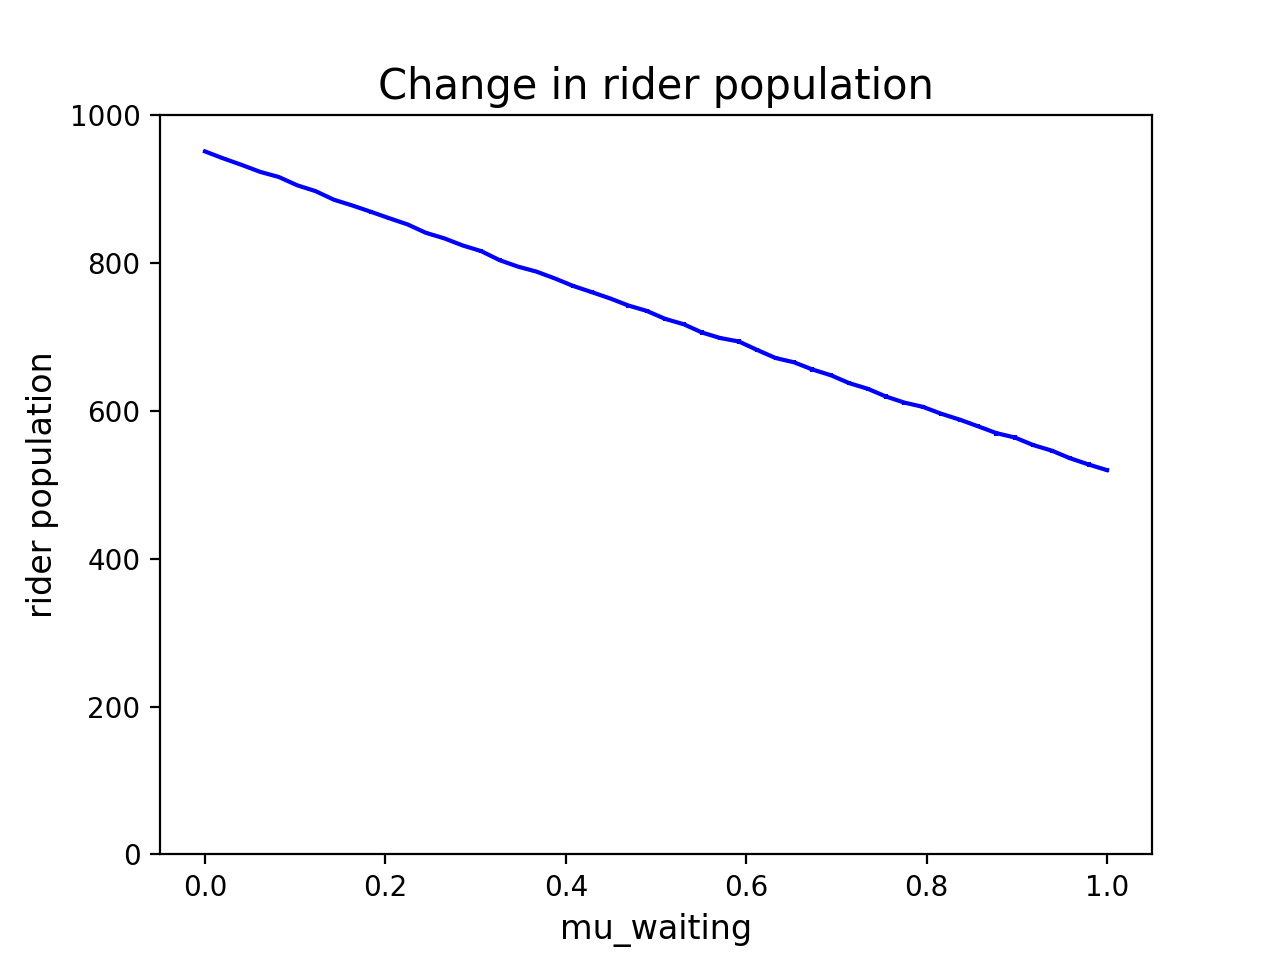
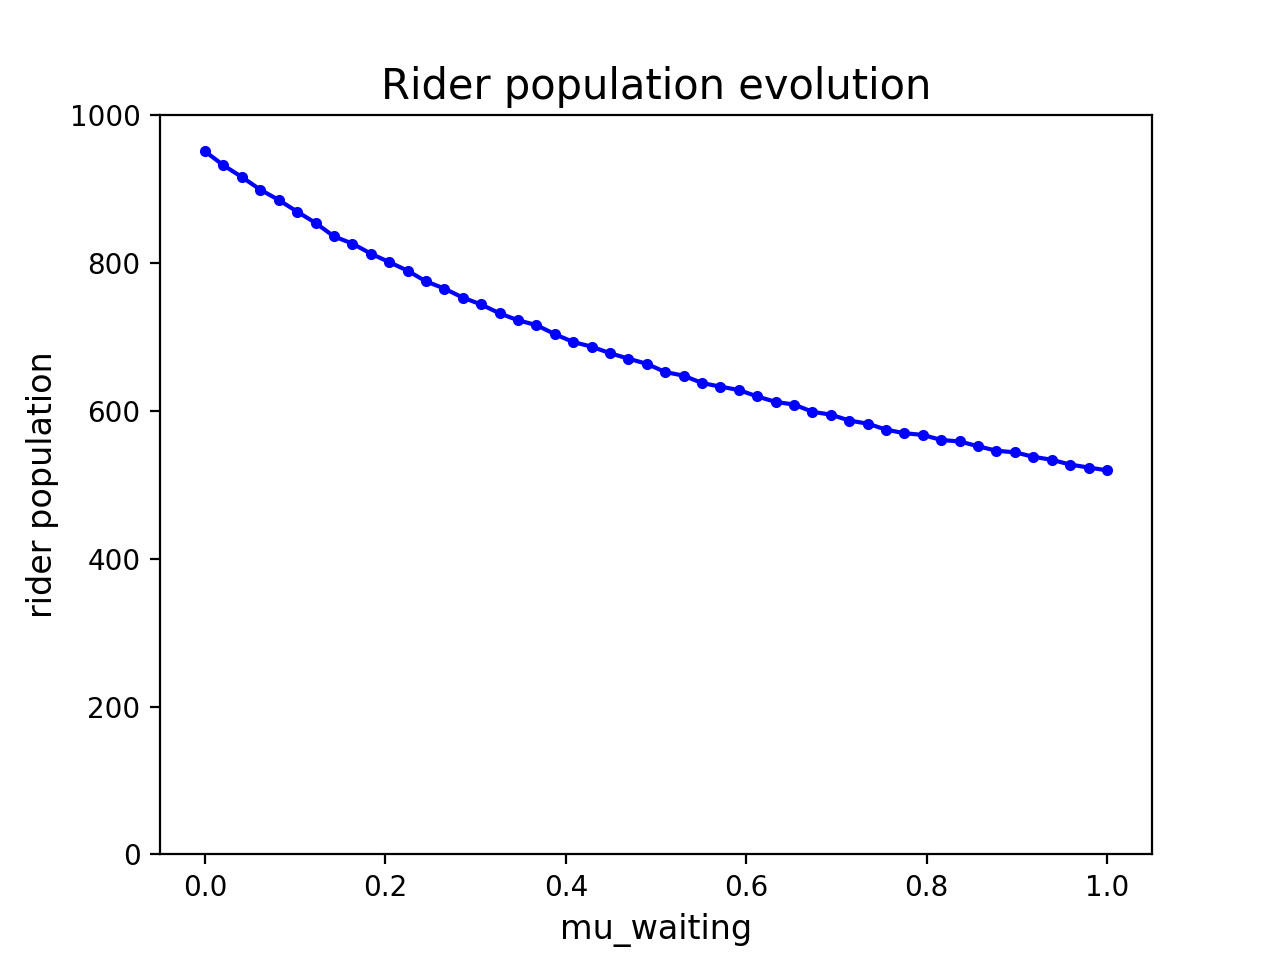
Generating rider and driver population decline w.r.t. respective mu_

diff --git a/code/agent_simulation/agent.py b/code/agent_simulation/agent.py
@@ -31,10 +31,12 @@ class Agent():
         # Decision based on rider or driver agent
         if self.is_rider:
             p = d_ms - self.mu_R * (n_r/(n_d+n_r)) - self.eta()*n_d
+            # p in [-mu_R, 1] -> [0, 1]
+            p = (p+self.mu_R)/(1+self.mu_R)
         else:
             p = r_ms*self.c_I() - self.mu_D/(1+self.mu_A*self.c_A()) * (n_d/(n_r+n_d)) + self.eta()*n_r
-        # p in [-1, 1] -> [0, 1]
-        p = (p+1)/2 
+            # p in [-mu_D, 1] -> [0, 1]
+            p = (p+self.mu_D)/(1+self.mu_D)
         # Append the rate of joining no platform
         p = np.append(p, [1-np.average(p)])
         indices = np.append(indices, [None])
